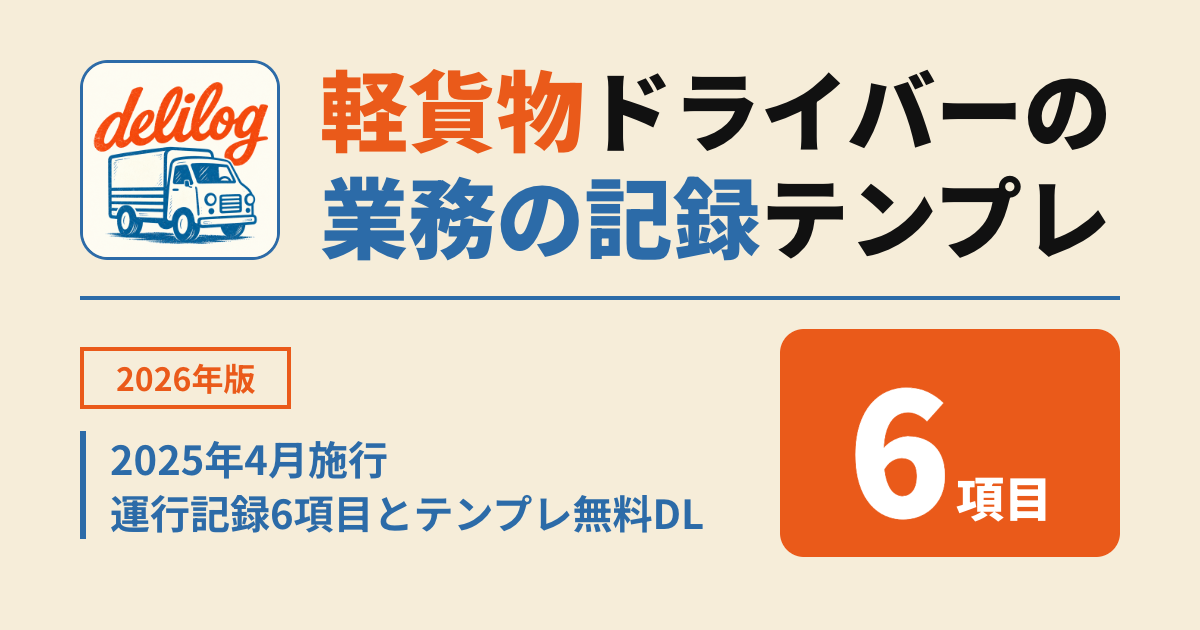
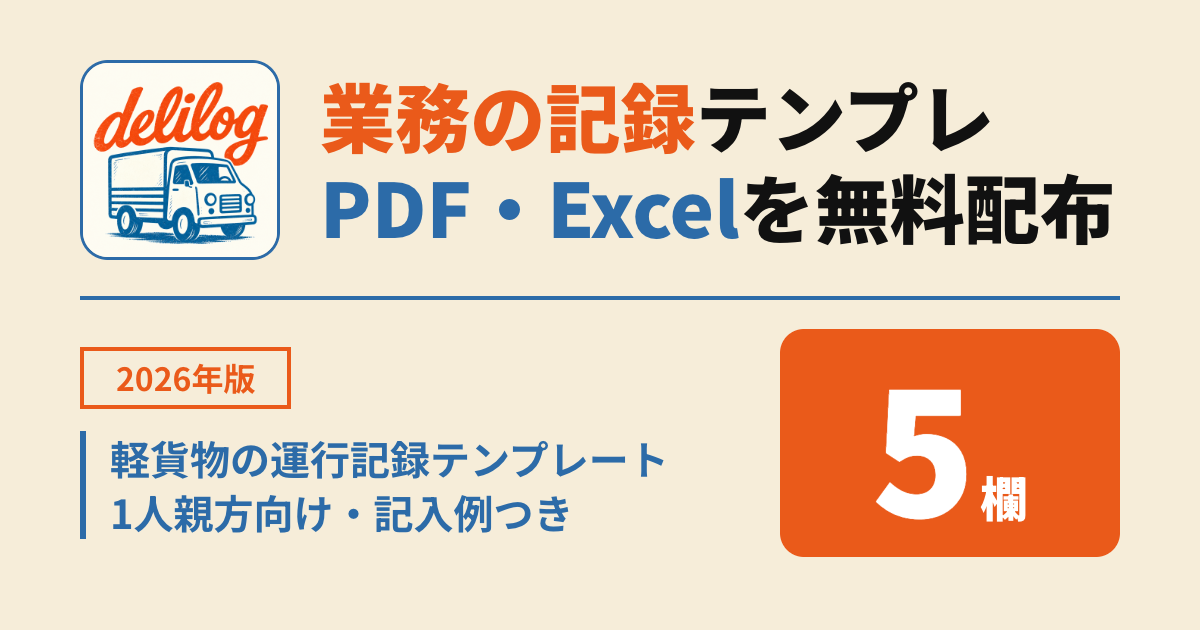
feat(blog): T4 gyoumu-no-kiroku-template 図と OG

diff --git a/content/figures/gyoumu-no-kiroku-template/conditions.html b/content/figures/gyoumu-no-kiroku-template/conditions.html
@@ -1,0 +1,10 @@
+<h1 class="fig-title">待機と荷役は<br><em>条件がそろう日</em>だけ</h1>
+<div class="fig-body">
+  <div class="fig-lead">待機</div>
+  <div class="fig-card is-accent" data-item>荷主都合で30分以上 → 書く</div>
+  <div class="fig-lead">荷役</div>
+  <div class="fig-card is-accent" data-item>全て明記＋1時間以上 → 書く<small>契約書に全て書いてある場合</small></div>
+  <div class="fig-card is-accent" data-item>明記が全てでない → 常に書く</div>
+  <div class="fig-card" data-item>どちらも外れ → 空欄でよい</div>
+</div>
+<div class="fig-footer"><span>delilog.app</span><img src="/app_icon.png" alt=""></div>

diff --git a/content/figures/gyoumu-no-kiroku-template/fields.html b/content/figures/gyoumu-no-kiroku-template/fields.html
@@ -1,0 +1,9 @@
+<h1 class="fig-title">普段の日に書くのは<br><em>毎回の5つ</em>だけ</h1>
+<div class="fig-body">
+  <div class="fig-card is-accent" data-item>運転者・車両・日付</div>
+  <div class="fig-card is-accent" data-item>開始・終了（地点と時刻）</div>
+  <div class="fig-card is-accent" data-item>走行距離（メーター）</div>
+  <div class="fig-card is-accent" data-item>経過地点（休憩もここ）</div>
+  <div class="fig-card" data-item>起きた日だけ書く4つ<small>待機・荷役・事故遅延・交替</small></div>
+</div>
+<div class="fig-footer"><span>delilog.app</span><img src="/app_icon.png" alt=""></div>

diff --git a/content/figures/gyoumu-no-kiroku-template/normal-day.html b/content/figures/gyoumu-no-kiroku-template/normal-day.html
@@ -1,0 +1,10 @@
+<h1 class="fig-title">平常の日は<br><em>5つの場面</em>を残す</h1>
+<div class="fig-body" style="gap:14px">
+  <div class="fig-card is-accent" data-item>出発（メーターを書く）</div>
+  <div class="fig-card" data-item>集荷</div>
+  <div class="fig-card" data-item>納品</div>
+  <div class="fig-card" data-item>休憩</div>
+  <div class="fig-card is-accent" data-item>帰着（メーターを書く）</div>
+  <div class="fig-card is-strong" data-item>走行距離 ＝ 帰着 − 出発</div>
+</div>
+<div class="fig-footer"><span>delilog.app</span><img src="/app_icon.png" alt=""></div>

diff --git a/content/blog/gyoumu-no-kiroku-template.md b/content/blog/gyoumu-no-kiroku-template.md
@@ -72,7 +72,7 @@ Excelにだけ、稼働時間（業務終了から業務開始を引いた時間
 
 図のとおり、編集部では欄を2つに分けています。「毎回5つ」は編集部の数え方で、法令が定める項目数ではありません。
 
-![用紙の欄は「毎回書く5つ」と「当てはまる日だけの4つ」に分かれる](/blog/gyoumu-no-kiroku-template/fields.png)
+![普段の日に書く欄は毎回の5つだけで、待機・荷役・事故遅延・交替の4つは起きた日だけ書く](/blog/gyoumu-no-kiroku-template/fields.png)
 
 毎回書く5つは、次のとおりです。
 
@@ -110,7 +110,7 @@ Excelにだけ、稼働時間（業務終了から業務開始を引いた時間
 
 運転者は貨物太郎さん、車両は品川000あ1234の例です。記入例の値は架空です。図は1日の流れ、細かい記入内容は表にしました。
 
-![平常の1日は「出発→集荷→納品→休憩→帰着」の順に時刻と地点を残す](/blog/gyoumu-no-kiroku-template/normal-day.png)
+![平常の日は出発・集荷・納品・休憩・帰着の5つの場面を残し、走行距離は帰着から出発を引いて求める](/blog/gyoumu-no-kiroku-template/normal-day.png)
 
 | 時刻 | 地点 | 内容 |
 |---|---|---|
@@ -142,7 +142,7 @@ Excelには「記入例」シートも入っています。迷ったら、空欄
 
 まず待機と荷役の「書く条件」を図で確認しましょう。
 
-![待機は「荷主都合で30分以上」、荷役は「契約書に全てが明記されていれば1時間以上、そうでなければ時間に関わらず」書く](/blog/gyoumu-no-kiroku-template/conditions.png)
+![待機は荷主都合で30分以上、荷役は契約書に全て明記なら1時間以上・そうでなければ時間に関わらず書く](/blog/gyoumu-no-kiroku-template/conditions.png)
 
 ### 待機は「荷主都合で30分以上」
 

diff --git a/docs/plans/blog-gyoumu-no-kiroku-template.md b/docs/plans/blog-gyoumu-no-kiroku-template.md
@@ -21,7 +21,7 @@ WORKTREE: /Users/narajunichi/delilog-website/.claude/worktrees/blog-gyoumu-no-ki
 - [x] T1: ファクトチェック — 03-fact-check.md。裏が取れない主張は「削除」「書き換え」と判定
 - [x] T2: プロダクト整合性 — 04-consistency.md
 - [x] T3: 執筆 — content/blog/gyoumu-no-kiroku-template.md と content/blog-short-ids.json の1行（既存 gyomu-tpl）。blog:stats が OK
-- [ ] T4: 図と OG — content/figures/gyoumu-no-kiroku-template/。blog:figures が OK
+- [x] T4: 図と OG — content/figures/gyoumu-no-kiroku-template/。blog:figures が OK
 - [ ] T5: 最終レビュー — 06-review.md。5つの検証コマンドがすべて OK、スマホのスクショを目で確認
 - [ ] T6: 公開準備 — BLOG_SCHEDULE・BLOG_BACKLOG の週まとめ更新（週の最初の1本）、blog/gyoumu-no-kiroku-template を push、PR（publish:2026-11-18）、プレビュー URL を取得
 
@@ -32,6 +32,7 @@ WORKTREE: /Users/narajunichi/delilog-website/.claude/worktrees/blog-gyoumu-no-ki
 | T1 | (このコミット) | 採用6・書き換え8・削除3。M067〜M069 追加 |
 | T2 | (このコミット) | 重大3件を構成書に反映（まとめのカード文言・様式例準拠と書かない・T1 処置の反映） |
 | T3 | (このコミット) | 本文 4,457字。図の未作成以外は blog:stats OK |
+| T4 | (このコミット) | 図3枚＋OG。blog:figures OK。旧横長図2枚を削除 |
 
 ## 失敗カウンタ
 
